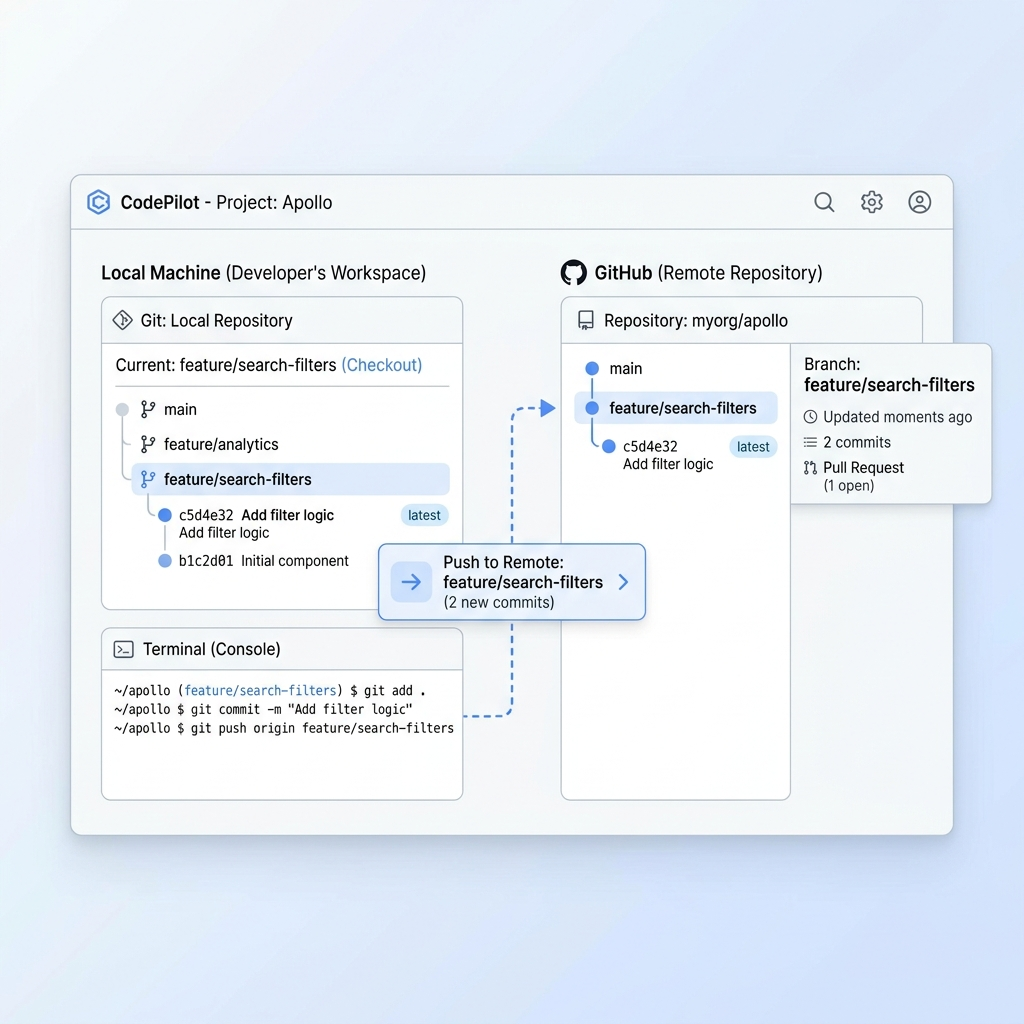
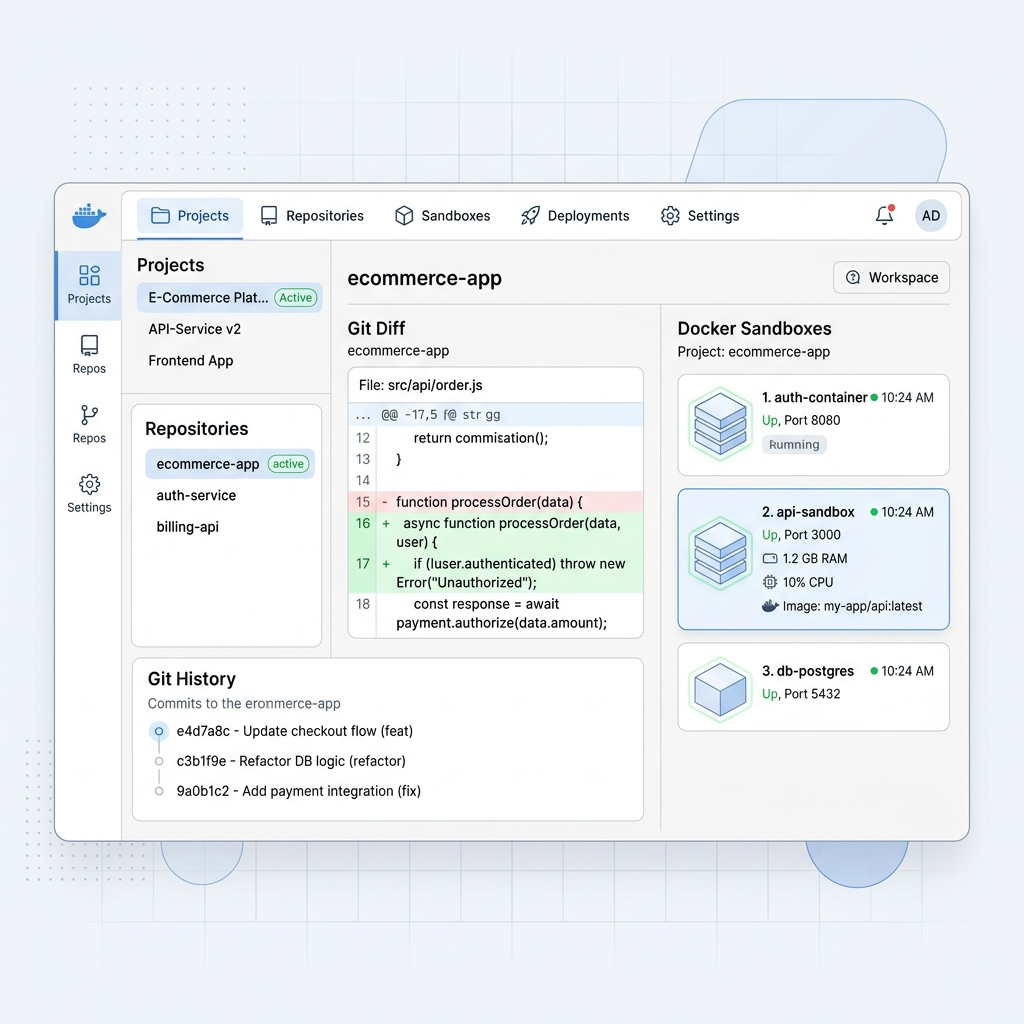
fix: adjust slide image container styling to object-fit contain for complete uncropped visibility

Changed region(s): [[0.0312, 0.1562, 1.0, 1.0]]

diff --git a/index.html b/index.html
@@ -600,12 +600,12 @@
 
     .editorial-stage {
       display: grid;
-      grid-template-columns: 200px 1fr 340px;
-      min-height: 480px;
+      grid-template-columns: 180px 1fr 420px;
+      min-height: 520px;
       position: relative;
     }
 
-    @media (max-width: 1024px) {
+    @media (max-width: 1120px) {
       .editorial-stage {
         grid-template-columns: 1fr;
       }
@@ -613,14 +613,14 @@
 
     .editorial-number-column {
       border-right: 1px solid rgba(0, 0, 0, 0.08);
-      padding: 40px 28px;
+      padding: 40px 24px;
       display: flex;
       flex-direction: column;
       justify-content: space-between;
     }
 
     .editorial-big-number {
-      font-size: clamp(80px, 10vw, 140px);
+      font-size: clamp(70px, 9vw, 130px);
       font-weight: 900;
       line-height: 0.85;
       letter-spacing: -0.07em;
@@ -640,8 +640,8 @@
 
     .editorial-image-column {
       border-left: 1px solid rgba(0, 0, 0, 0.08);
-      padding: 36px;
-      background: #f8f8f9;
+      padding: 24px;
+      background: #f4f4f6;
       display: flex;
       align-items: center;
       justify-content: center;
@@ -650,13 +650,14 @@
     .editorial-mockup-card {
       width: 100%;
       height: 100%;
-      min-height: 320px;
-      max-height: 380px;
-      border-radius: 24px;
+      min-height: 380px;
+      max-height: 440px;
+      border-radius: 20px;
       overflow: hidden;
-      box-shadow: 0 16px 40px rgba(0, 0, 0, 0.08);
+      box-shadow: 0 12px 30px rgba(0, 0, 0, 0.06);
       border: 1px solid rgba(0, 0, 0, 0.08);
-      background: white;
+      background: #ffffff;
+      padding: 12px;
       display: flex;
       align-items: center;
       justify-content: center;
@@ -665,7 +666,8 @@
     .editorial-mockup-img {
       width: 100%;
       height: 100%;
-      object-fit: cover;
+      object-fit: contain;
+      border-radius: 12px;
       transition: transform 0.4s ease;
     }
 
